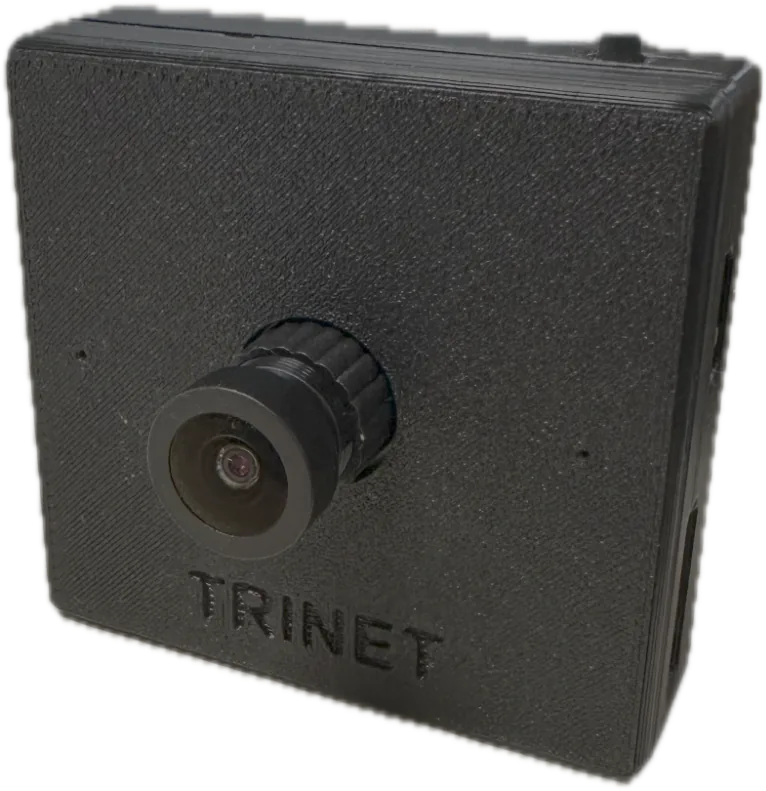
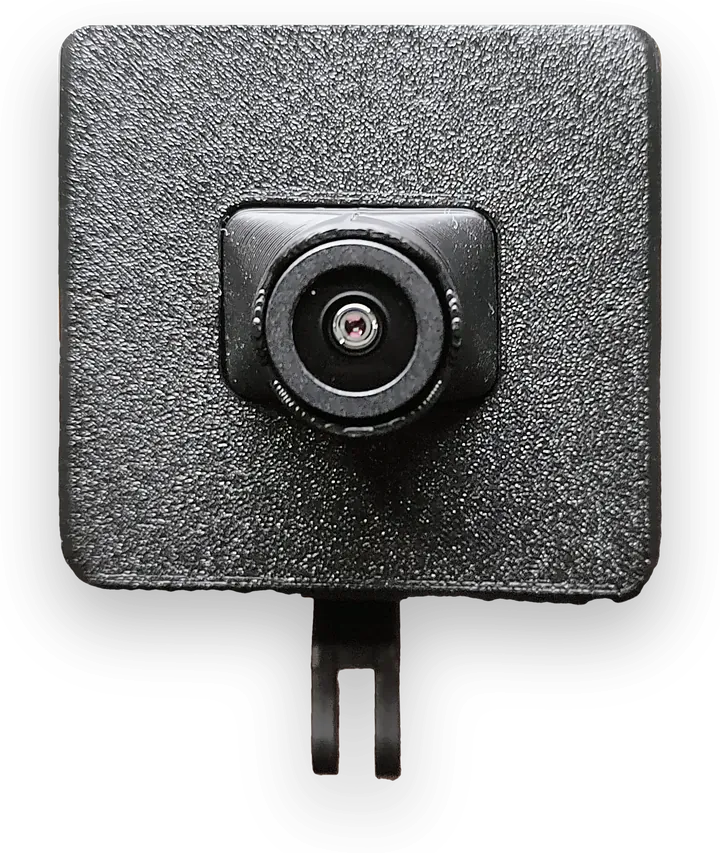
Use new Trinet Mono, Stereo RS and Stereo GS product photos
Replace mono-front and stereo-front (now the rolling-shutter Stereo) with
the new photos, and give Stereo GS its own stereo-gs-front image instead
of sharing the Stereo one.

diff --git a/docs/get-started/index.md b/docs/get-started/index.md
@@ -6,7 +6,7 @@ description: What you need to start recording with a Trinet camera, and the two 
 # Get started
 
 
-<div class="photo-row"><figure><img class="product-shot" src="../assets/images/product/mono-front.webp" alt="Trinet Mono, front" loading="lazy"><figcaption>Trinet Mono</figcaption></figure><figure><img class="product-shot" src="../assets/images/product/stereo-front.webp" alt="Trinet Stereo, front" loading="lazy"><figcaption>Trinet Stereo / Stereo GS</figcaption></figure></div>
+<div class="photo-row"><figure><img class="product-shot" src="../assets/images/product/mono-front.webp" alt="Trinet Mono, front" loading="lazy"><figcaption>Trinet Mono</figcaption></figure><figure><img class="product-shot" src="../assets/images/product/stereo-front.webp" alt="Trinet Stereo, front" loading="lazy"><figcaption>Trinet Stereo</figcaption></figure><figure><img class="product-shot" src="../assets/images/product/stereo-gs-front.webp" alt="Trinet Stereo GS, front" loading="lazy"><figcaption>Trinet Stereo GS</figcaption></figure></div>
 
 A Trinet camera works in two ways:
 

diff --git a/docs/products/stereo-gs.md b/docs/products/stereo-gs.md
@@ -11,7 +11,7 @@ skew and wobble of a rolling shutter. Everything else — two eyes 70 mm apart, 
 factory calibration, the app and the SDK — works exactly like Trinet Stereo.
 
 <figure markdown>
-  ![Trinet stereo camera, front view](../assets/images/product/stereo-front.webp){ .product-shot width="420" loading=lazy }
+  ![Trinet Stereo GS, front view](../assets/images/product/stereo-gs-front.webp){ .product-shot width="420" loading=lazy }
   <figcaption>Trinet Stereo GS shares the Trinet Stereo form factor: two lenses, 70 mm apart.</figcaption>
 </figure>
 

diff --git a/docs/index.md b/docs/index.md
@@ -45,7 +45,7 @@ your own software.
 
     [:octicons-arrow-right-24: Trinet Stereo](products/stereo.md)
 
--   ![Trinet Stereo GS](assets/images/product/stereo-front.webp){ .product-shot loading=lazy }
+-   ![Trinet Stereo GS](assets/images/product/stereo-gs-front.webp){ .product-shot loading=lazy }
 
     **Trinet Stereo GS**
 
